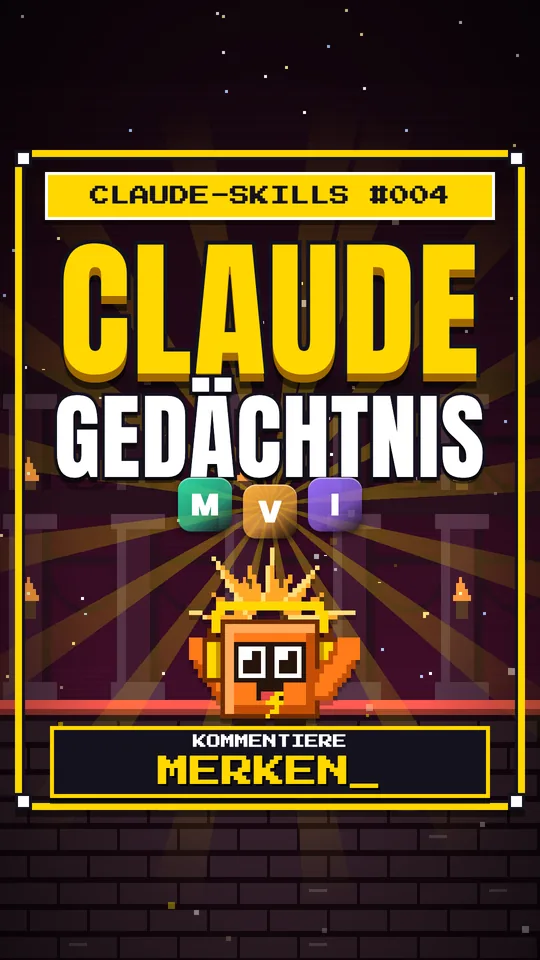
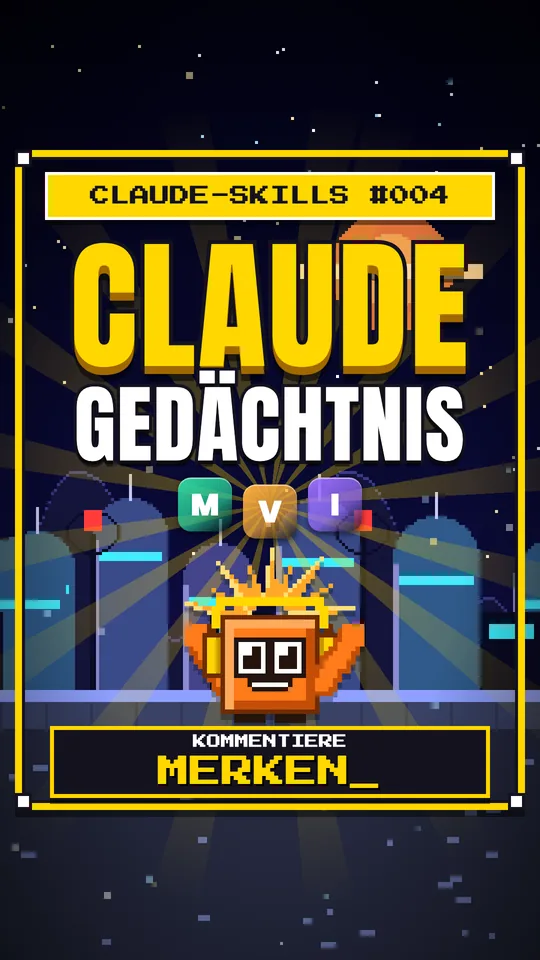
Neue Cover P001, P003-P011 (neue Welten, Stimme Mailo)

diff --git a/suche/index.html b/suche/index.html
@@ -4,10 +4,10 @@
 <meta charset="utf-8">
 <meta name="viewport" content="width=device-width,initial-scale=1,viewport-fit=cover">
 <meta name="robots" content="noindex">
-<title>Chat-suche Nutzen – Gratis-Anleitung | Claude-Skills mit Funki</title>
+<title>Chats Suchen – Gratis-Anleitung | Claude-Skills mit Funki</title>
 <meta name="description" content="3 Dinge, die du über die Chat-Suche wissen musst.">
 <meta name="theme-color" content="#0a0a1c">
-<meta property="og:title" content="Chat-suche Nutzen – Gratis-Anleitung">
+<meta property="og:title" content="Chats Suchen – Gratis-Anleitung">
 <meta property="og:description" content="3 Dinge, die du über die Chat-Suche wissen musst.">
 <meta property="og:image" content="https://funki-skills.github.io/img/og-funki.png">
 <link rel="icon" type="image/png" href="../favicon.png">
@@ -25,9 +25,9 @@
  <section class="level rv" data-lv="VIDEO #011" data-coins="1" aria-labelledby="h">
   <span class="tag">GRATIS-ANLEITUNG · VIDEO #011</span>
   <div class="frame lphero">
-   <img class="cv" src="../img/cover-suche.webp" width="540" height="960" alt="Cover von Claude-Skills Nr. 011: Chat-suche Nutzen">
+   <img class="cv" src="../img/cover-suche.webp" width="540" height="960" alt="Cover von Claude-Skills Nr. 011: Chats Suchen">
    <div>
-    <h1 id="h" style="font-size:clamp(32px,8.5vw,56px)">Chat-suche Nutzen</h1>
+    <h1 id="h" style="font-size:clamp(32px,8.5vw,56px)">Chats Suchen</h1>
     <p class="d">3 Dinge, die du über die Chat-Suche wissen musst.</p>
     <h2 class="lh">Das lernst du</h2>
     <ul class="chk"><li>Deine Regeln: Nur Bezahlpläne</li><li>Mit Beleg: Zitate zum Original</li><li>Einfach fragen: Alte Chats finden</li></ul>
@@ -56,7 +56,7 @@
   <span class="tag">DER NÄCHSTE LEVEL</span>
   <div class="frame">
    <h2 id="hu">Den fertigen Skill gibt es hier</h2>
-   <p class="d">Du willst es nicht selbst einrichten? Zu „Chat-suche Nutzen“ gibt es den fertigen Skill zum Hochladen – Claude richtet ihn selbst ein.</p>
+   <p class="d">Du willst es nicht selbst einrichten? Zu „Chats Suchen“ gibt es den fertigen Skill zum Hochladen – Claude richtet ihn selbst ein.</p>
    <p style="margin-top:16px"><a class="btn" data-link="einzel" href="#bald">Fertigen Skill holen</a></p>
    <div class="note" aria-live="polite"></div>
   </div>

diff --git a/index.html b/index.html
@@ -152,10 +152,10 @@
      </div>
     </article>
     <article class="card l1card">
-     <img class="cv" src="img/cover-suche.webp" width="540" height="960" alt="Cover von Claude-Skills Nr. 011: Chat-suche Nutzen" loading="lazy">
+     <img class="cv" src="img/cover-suche.webp" width="540" height="960" alt="Cover von Claude-Skills Nr. 011: Chats Suchen" loading="lazy">
      <div>
       <span class="k">VIDEO #011</span>
-      <h3>Chat-suche Nutzen</h3>
+      <h3>Chats Suchen</h3>
       <p>3 Dinge, die du über die Chat-Suche wissen musst.</p>
       <p class="kw">Kommentarwort: <b>SUCHE</b></p>
       <p style="margin-top:12px"><a class="btn" href="suche/">Anleitung holen</a></p>
